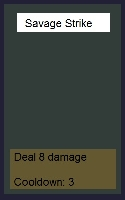
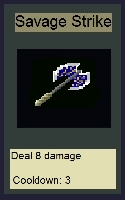
Added art for savage strike

diff --git a/game/src/everything/statusPackage/IncreaseDefenseStatus.java b/game/src/everything/statusPackage/IncreaseDefenseStatus.java
@@ -6,7 +6,7 @@ import everything.Player;
  * Created by Steve on 4/17/2017.
  */
 public class IncreaseDefenseStatus extends Status {
-    public static final String text = "Hold your shield up, negating all damage for the turn";
+    //public static final String text = "Hold your shield up, negating all damage for the turn";
     public int defenseFactor;
 
 
